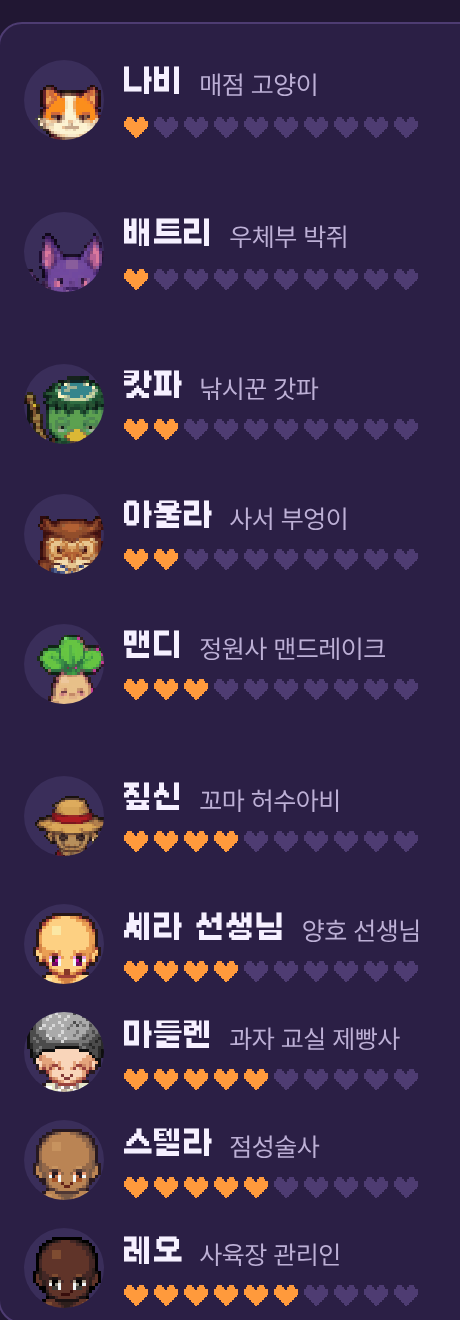
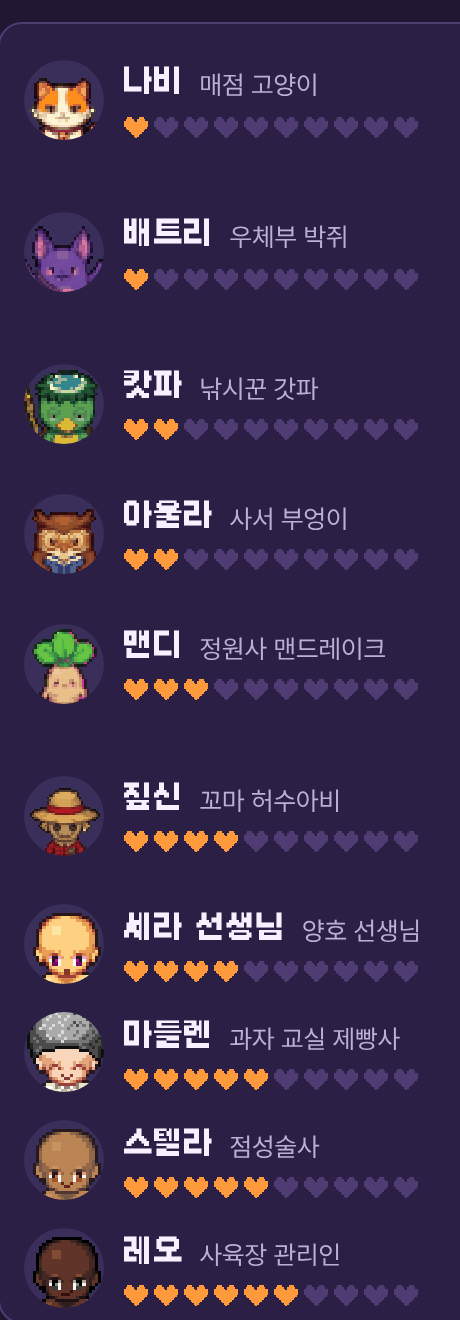
NPC 얼굴 액자 중앙 정렬 수정: 액자 크기가 CSS로 바뀌어도 어긋나지 않게 그림 크기·위치를 퍼센트로 계산, 여백 축소
Claude-Session: https://claude.ai/code/session_01HhJ2NoNCjk5kaA3GWL7UDs

diff --git a/public/index.html b/public/index.html
@@ -2032,8 +2032,10 @@ function renderCook(){
 const NPC_ART_V = 5;
 const NPC_DATA_V = 1;   // data/npc 캐시 버전
 // LPC NPC 그림(art/npcs.png: 한 줄 = 한 명, 64칸 20개)에서 얼굴 부분만 크게 (초상화)
-const NPC_FACE = { 0: [11, 12, 35], 1: [16, 10, 32], 2: [18, 14, 31], 3: [15, 16, 35], 4: [17, 21, 36], 5: [10, 6, 44] };   // 동물·허수아비는 사람과 머리 위치가 달라요 (나비·배트리·캇파·아울라·맨디·짚신 얼굴 틀: x, y, 크기)
-const npcFace = (spr, size = 48) => { const hb = NPC_FACE[spr], B = hb ? { x: hb[0], y: hb[1], s: hb[2] } : World.Avatar.headBox, k = size / B.s; return `<i class="npcspr" style="width:${size}px;height:${size}px;background:url(art/npcs.webp?v=${NPC_ART_V}) ${-B.x * k}px ${-(spr * 64 + B.y) * k}px/${64 * 20 * k}px ${64 * 13 * k}px no-repeat"></i>`; };
+const NPC_FACE = { 0: [13, 14, 31], 1: [18, 12, 29], 2: [20, 16, 28], 3: [17, 18, 31], 4: [19, 23, 32], 5: [12, 9, 39] };   // 동물·허수아비는 사람과 머리 위치가 달라요 (나비·배트리·캇파·아울라·맨디·짚신 얼굴 틀: x, y, 크기)
+const npcFace = (spr, size = 48) => {   // 액자 크기가 CSS로 바뀌어도(관계 화면 40px 등) 얼굴이 가운데에 오도록 그림 크기·위치를 퍼센트로 계산해요
+  const hb = NPC_FACE[spr], B = hb ? { x: hb[0], y: hb[1], s: hb[2] } : World.Avatar.headBox, SW = 64 * 20, SH = 64 * 13;
+  return `<i class="npcspr" style="width:${size}px;height:${size}px;background:url(art/npcs.webp?v=${NPC_ART_V}) ${(B.x / (SW - B.s) * 100).toFixed(3)}% ${((spr * 64 + B.y) / (SH - B.s) * 100).toFixed(3)}%/${(SW / B.s * 100).toFixed(2)}% ${(SH / B.s * 100).toFixed(2)}% no-repeat"></i>`; };
 const npcFull = (spr, size = 144) => { const k = size / 64; return `<i class="stspr" style="background:url(art/npcs.webp?v=${NPC_ART_V}) 0 ${-spr * 64 * k}px/${64 * 20 * k}px ${64 * 13 * k}px no-repeat"></i>`; };
 const NPC_DEF = [
   { id: 'nabi', wander: true, name: '나비', title: '매점 고양이', spr: 0, h: 22, map: 'campus', x: 61, y: 35, likes: ['f_crucian', 'd_minnowfry', 'g2_catnip'], dislikes: ['j_weed'],
